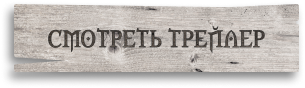
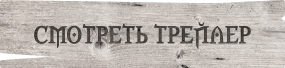
+стили

diff --git a/index.html b/index.html
@@ -5,12 +5,15 @@
   <meta http-equiv="X-UA-Compatible">
   <meta name="viewport" content="width=device-width, initial-scale=1.0">
   <title>Промо второго сезона Ведьмака</title>
+  <link rel="preload" href="fonts/ibm-plex-mono-latin_cyrillic-500.woff2" as="font"
+  type="font/woff2"
+  crossorigin>
   <link rel="stylesheet" href="css/index.css">
 </head>
 <body>
   <header class="header">
-    <div class="container">
-      <img class="header__logo" src="img/logo.svg" alt="Лого сериала ведьмак">
+    <div class="container header__container">
+      <img class="header__logo" src="img/logo.svg" alt="Лого сериала ведьмак" height="85" width="93">
       <p class="header__announcment">2 сезон уже с 17 декабря</p>
       <nav class="header__navigation navigation">
         <ul class="navigation__list">
@@ -32,7 +35,7 @@
       <div class="present__hero">
         <h1 class="present__title">Ведьмак</h1>
         <p class="present__tagline">Те, кто связан предназначением, всегда найдут друг друга</p>
-        <a class="present__btn" href="https://youtu.be/PQ59CmCyOk4">Пялимся трейлер</a>
+        <a class="present__btn" href="https://youtu.be/PQ59CmCyOk4"></a>
       </div>
       <div class="present__tabs tabs">
         <ul class="tabs__control">
@@ -99,7 +102,7 @@
               <li class="card card_products">
                 <article class="product">
                   <img class="product__img" src="img/pendant.jpg" alt="">
-                  <h2>Медальон Школы Волка</h2>
+                  <h2 class="product__title">Медальон Школы Волка</h2>
                   <div class="product__wrapper-buy">
                     <p class="product__price">999₽</p>
                     <button class="product__btn-buy">
@@ -114,7 +117,7 @@
               <li class="card card_products">
                 <article class="product">
                   <img class="product__img" src="img/mask.jpg" alt="">
-                  <h2>Маска защитная</h2>
+                  <h2 class="product__title">Маска защитная</h2>
                   <div class="product__wrapper-buy">
                     <p class="product__price">390₽</p>
                     <button class="product__btn-buy">
@@ -129,7 +132,7 @@
               <li class="card card_products">
                 <article class="product">
                   <img class="product__img" src="img/pendent.jpg" alt="">
-                  <h2>Кулон Волк</h2>
+                  <h2 class="product__title">Кулон Волк</h2>
                   <div class="product__wrapper-buy">
                     <p class="product__price">1999₽</p>
                     <button class="product__btn-buy">

diff --git a/css/product.css b/css/product.css
@@ -1,0 +1,52 @@
+.product__img {
+  width: 100%;
+  height: 176px;
+  object-fit: cover;
+  object-position: center;
+  margin-bottom: 10px;
+}
+
+.product__title {
+  font-size: 20px;
+  line-height: 120%;
+  margin-bottom: 5px;
+}
+
+.product__wrapper-buy {
+  display: flex;
+  justify-content: space-between;
+}
+
+.product__btn-buy {
+  width: 36px;
+  height: 36px;
+  display: flex;
+  justify-content: center;
+  align-items: center;
+  background-color: transparent;
+  border: 1px solid transparent;
+  color: #fff;
+  background-color: transparent;
+  border-radius: 50%;
+  transition: background-color 0.3s ease-in, border-color 0.3s ease-in,
+    color 0.2s ease-in;
+  outline: none;
+}
+
+.product__btn-buy:hover {
+  background-color: rgba(255, 255, 255, 0.19);
+}
+
+.product__btn-buy:active {
+  color: #b3b3b3;
+  background-color: rgba(255, 255, 255, 0.19);
+}
+
+.product__btn-buy:focus {
+  border-color: 1px solid #9b9b9b;
+}
+
+.product__btn-item {
+  width: 24px;
+  height: 24px;
+}

diff --git a/css/navigation.css b/css/navigation.css
@@ -1,0 +1,42 @@
+.navigation__list {
+  display: flex;
+  gap: 25px;
+}
+
+.navigation__link {
+  background-color: rgba(255, 255, 255, 0.7);
+  width: 40px;
+  height: 40px;
+  display: block;
+  border-radius: 50%;
+  background-position: center;
+  background-repeat: no-repeat;
+  border: 1px solid transparent;
+  transition: border 0.3s ease-in, background-color 0.3s ease-in,
+    box-shadow 0.3s ease-in;
+  outline: 0;
+}
+
+.navigation__link:focus {
+  border-color: #5b5b5b;
+}
+
+.navigation__link:hover {
+  background-color: #fff;
+}
+
+.navigation__link:active {
+  box-shadow: 0px 1px 5px rgba(0, 0, 0, 0.7);
+}
+
+.navigation__link_netflix {
+  background-image: url(../img/netflix.svg);
+}
+
+.navigation__link_okko {
+  background-image: url(../img/okko.svg);
+}
+
+.navigation__link_kinopoisk {
+  background-image: url(../img/kinopoisk.svg);
+}

diff --git a/css/present.css b/css/present.css
@@ -1,0 +1,32 @@
+.present {
+  padding-top: 27px;
+}
+
+.present__title {
+  font-family: "IBM Plex Mono";
+  font-weight: 500;
+  font-size: 90px;
+  line-height: 120%;
+  margin-bottom: 8px;
+}
+
+.present__tagline {
+  line-height: 130%;
+  margin-bottom: 54px;
+  max-width: 350px;
+}
+
+.present__btn {
+  display: block;
+  width: 285px;
+  height: 68px;
+  background-image: url("../img/btn.png");
+  filter: drop-shadow(-4px 6px 10px rgba(10, 10, 10, 0.51));
+  border-radius: 2px;
+  background-position: center;
+  background-size: cover;
+}
+
+.present__hero {
+  margin-bottom: 30px;
+}

diff --git a/css/tabs.css b/css/tabs.css
@@ -1,0 +1,29 @@
+.tabs__control {
+  display: flex;
+  background-color: rgba(0, 0, 0, 0.7);
+  padding: 13px 22px;
+  max-width: 285px;
+  margin-left: auto;
+  justify-content: space-between;
+  margin-bottom: 12px;
+}
+
+.tabs__btn {
+  background-color: transparent;
+  border-width: 0;
+  color: inherit;
+  font-weight: 700;
+  line-height: 1;
+  border-bottom: 2px solid transparent;
+  transition: border-color 0.3s ease-in;
+}
+
+.tabs__btn_active {
+  border-color: #fff;
+}
+
+.tabs__content {
+  display: flex;
+  justify-content: space-between;
+  gap: 30px;
+}

diff --git a/css/card.css b/css/card.css
@@ -1,0 +1,26 @@
+.card_video {
+  flex-basis: 285px;
+}
+
+.card__video-img {
+  width: 100%;
+  height: 146px;
+  object-fit: cover;
+  object-position: center;
+  margin-bottom: 10px;
+}
+
+.card_img {
+  flex-basis: 255px;
+}
+
+.card__photo-img {
+  width: 100%;
+  height: 206px;
+  object-fit: cover;
+  object-position: center;
+}
+
+.card_product {
+  flex-basis: 285px;
+}

diff --git a/css/header.css b/css/header.css
@@ -1,0 +1,18 @@
+.header {
+  padding-top: 20px;
+  padding-bottom: 10px;
+}
+
+.header__container {
+  display: grid;
+  grid-template-columns: repeat(3, 1fr);
+  align-items: center;
+}
+
+.header__announcment {
+  justify-self: center;
+}
+
+.header__navigation {
+  justify-self: end;
+}

diff --git a/css/index.css b/css/index.css
@@ -1,3 +1,9 @@
 @import "normalize.css";
 @import "fonts.css";
 @import "page.css";
+@import "header.css";
+@import "navigation.css";
+@import "present.css";
+@import "tabs.css";
+@import "card.css";
+@import "product.css";
